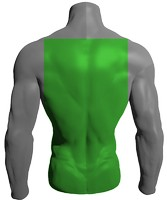
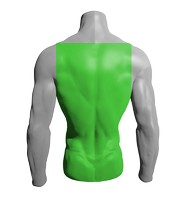
Finishes jacket impact zones code

diff --git a/src/components/JacketImpactZone.vue b/src/components/JacketImpactZone.vue
@@ -2,20 +2,19 @@
   <div class="impact-zone">
     <div class="row">
       <div class="col impact-zone-text">
-        <img v-if="certification" class="impact-zone-image" v-bind:src="url" />
-        <font-awesome-icon v-else icon="question-circle" size="5x" />
+        <img class="impact-zone-image" v-bind:src="zoneDetails.url" />
       </div>
     </div>
     <div class="row">
       <div class="col impact-zone-text">
         <div class="row">
           <div class="col">
-            <span class="zone-rating-text">{{zoneRatingText}}</span>
+            <span class="zone-rating-text">{{zoneDetails.text}}</span>
           </div>
         </div>
         <div class="row">
           <div class="col">
-            <span>{{zoneLabelText}} <font-awesome-icon icon="info-circle" /></span>
+            <span>{{zoneId | capitalize}} <font-awesome-icon icon="info-circle" /></span>
           </div>
         </div>
       </div>
@@ -24,15 +23,29 @@
 </template>
 
 <script>
+const APPROVED_TEXT = 'CE Approved'
+
 export default {
   name: 'JacketImpactZone',
-  props: ['certification'],
+  props: ['certification', 'zoneId'],
   computed: {
-    url () {
-      return null
-    },
-    zoneRatingText () {
-      return 'sometexthere'
+    zoneDetails () {
+      // TODO: this should probably move to the backend, which should return a number to map to the image instead of hardcoding black/empty/orange/red etc.
+      if (!this.certification) {
+        return { text: 'No Armor Support', url: require(`../assets/jackets/${this.zoneId}/black.jpg`) }
+      }
+
+      if (this.certification.isEmpty) {
+        return { text: 'Sold Separately', url: require(`../assets/jackets/empty.jpg`) }
+      }
+
+      const levelText = this.certification.isLevel2 ? 'CE Level 2' : 'CE Level 1'
+
+      if (this.certification.isApproved) {
+        return { text: levelText, subText: APPROVED_TEXT, url: this.certification.isLevel2 ? require(`../assets/jackets/${this.zoneId}/green.jpg`) : require(`../assets/jackets/${this.zoneId}/orange.jpg`) }
+      }
+
+      return { text: levelText, subText: APPROVED_TEXT, url: this.certification.isLevel2 ? require(`../assets/jackets/${this.zoneId}/yellow.jpg`) : require(`../assets/jackets/${this.zoneId}/red.jpg`) }
     }
   }
 }

diff --git a/src/views/Ratings.vue b/src/views/Ratings.vue
@@ -2,12 +2,7 @@
   <div class="container-fluid">
     <div class="row">
       <div class="d-none d-lg-block col-lg-3 product-filter-sidebar">
-        <product-filter-sidebar
-          v-bind:initialManufacturer="initialManufacturer"
-          v-bind:initialModel="initialModel"
-          v-bind:type="type"
-          v-on:filtersChanged="onFiltersChangedAsync"
-        />
+        <product-filter-sidebar v-bind:initialManufacturer="initialManufacturer" v-bind:initialModel="initialModel" v-bind:type="type" v-on:filtersChanged="onFiltersChangedAsync" />
       </div>
       <div class="col-12 col-lg-9 product-results">
         <div class="row sort-row">
@@ -40,7 +35,7 @@
           </div>
         </div>
         <div v-show="showFilters" class="d-xs-block d-lg-none product-filter-sidebar">
-          <product-filter-sidebar v-bind:initialManufacturer="initialManufacturer" v-bind:initialModel="initialModel" v-bind:show-filters="showFilters" v-on:filtersChanged="onFiltersChangedAsync" />
+          <product-filter-sidebar v-bind:initialManufacturer="initialManufacturer" v-bind:initialModel="initialModel" v-bind:type="type" v-bind:show-filters="showFilters" v-on:filtersChanged="onFiltersChangedAsync" />
         </div>
         <hr class="d-xs-block d-lg-none sort-separator" />
         <div v-if="results.length">
